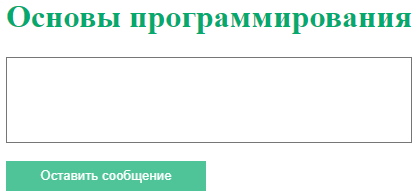
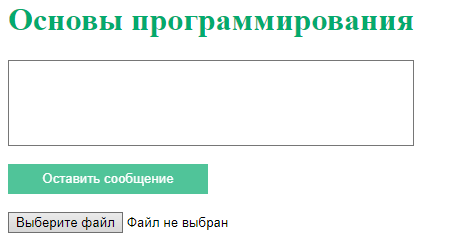
Pictures to posts add

Changed region(s): [[0.0, 0.6804, 0.9905, 0.9897], [0.0, 0.2474, 0.9905, 0.6186], [0.0, 0.0309, 0.9905, 0.1856]]

diff --git a/style.css b/style.css
@@ -7,6 +7,8 @@ textarea {
     margin-left: 25px;
 }
 
+
+
 .commentSubmit{
     background-color: #04AA6D;
     width: 200px;
@@ -43,13 +45,14 @@ h1{
     border: none;
     cursor: pointer;
     opacity: 0.9;
-
 }
 
 .hr{
     margin-right: 715px;
     margin-left: 25px;
 }
+
+
 
 .likeSubmit:hover{
     opacity: 1;

diff --git a/comment.php b/comment.php
@@ -1,12 +1,31 @@
 <?php
 
+include __DIR__.'/connection.php';
+
+$GLOBALS["symb_base"] = "0987654321zxcvbnmasdfghjklqwertyuiopPOIUYTREWQLKJHGFDSAMNBVCXZ";
+
+function gen_str($count) {
+    $str = "";
+    for ($i = 0; $i < $count; $i++) {
+        $num = rand(0,strlen($GLOBALS["symb_base"]) - 1);
+        $rand_symb = $GLOBALS["symb_base"][$num];
+        $str = $str.$rand_symb;
+    }
+    return $str;
+}
+
+
 function setComments($conn) {
     if (isset($_POST['commentSubmit'])) {
         $uid = $_POST['uid'];
         $date = $_POST['date'];
         $message = $_POST['message'];
         $likes = $_POST['likes'];
-        $sql = "INSERT INTO comments (uid, date, message, likes) VALUES ('$uid', '$date', '$message', '$likes')";
+        $dislikes = $_POST['dislikes'];
+        $file = $_FILES['img'];
+        $name = gen_str(5).".png";
+        (@copy($file["tmp_name"], __DIR__.'/img/'.$name));
+        $sql = "INSERT INTO comments (uid, date, message, likes, dislikes, image_id) VALUES ('$uid', '$date', '$message', '$likes', '$dislikes', '$name')";
         $result = $conn->query($sql);
         header('Location: index.php' );
     }
@@ -26,15 +45,22 @@ function getComments($conn){
             echo $row['uid']."<br>";
             echo $row['date']."<br>";
             echo $row['message']."<br>";
+            $img_id = $row['image_id'];
+            echo "<br>";
+            if ($img_id) {
+                echo "<td><img style = 'width:390px;' src = 'img/".$img_id."' alt = 'Тут могло быть изображение'/> </td>";
+                }
             echo "<div>  <form method='POST' action='".likeSubmit($conn,$row)."'>  <button type='submit' name='".$row['cid']."' class='likeSubmit'>Like</button>  Likes: ".$row["likes"]."  </form></div>";
+            echo "<br>";
+            echo "<div>  <form method='POST' action='".dislikeSubmit($conn,$row)."'>  <button type='submit' name='".$row['cid']."' class='dislikeSubmit' style='  background-color: #ff0000; color: white; border: none; cursor: pointer; opacity: 0.9;'>Dislike</button>  Dislikes: ".$row["dislikes"]."  </form></div>";
             echo "<hr>";
             echo "<p></div>";
         }
-    $i++;
+        $i++;
     }
 }
 
-function likeSubmit($conn,$row) {
+function likeSubmit($conn,$row){
     if(isset($_POST[$row['cid']])) {
         $cid = $row['cid'];
         $likes = $row['likes']+1;
@@ -42,4 +68,14 @@ function likeSubmit($conn,$row) {
         $result = mysqli_query($conn, $query);
     }
 }
+
+function dislikeSubmit($conn,$row){
+    if(isset($_POST[$row['cid']])) {
+        $cid = $row['cid'];
+        $dislikes = $row['dislikes'] + 1;
+        $query = "UPDATE comments SET dislikes = '$dislikes' WHERE cid = '$cid'";
+        $result = mysqli_query($conn, $query);
+    }
+}
+
 

diff --git a/index.php b/index.php
@@ -2,7 +2,6 @@
     date_default_timezone_set('Europe/Moscow');
     include 'connection.php';
     include 'comment.php';
-
 ?>
 
 <!DOCTYPE html>
@@ -18,18 +17,21 @@
 <h1>Основы программирования</h1>
 <?php
 
-echo "<form method='POST' action='".setComments($conn)."'>
+
+echo "<form method='POST' action='".setComments($conn)."' enctype = 'multipart/form-data'>
     <input type='hidden' name='uid' value='Аноним'>
     <input type='hidden' name='date' value='".date('Y-m-d H:i:s')."'>
     <input type='hidden' name='likes' value='0'>
+    <input type='hidden' name='dislikes' value='0'>
     <textarea name='message' required></textarea><br>
     <button type='submit' class='commentSubmit' name='commentSubmit'>Оставить сообщение</button>
-    <hr class='hr'>
-</form>";
-
+    <br><input type='file' name='img' style='margin-left: 25px'>
+    </form>";
 ?>
 
+<hr class='hr'>
 <div class="flex-container">
+
 <?php
 
 echo "<form method='POST' action='".getComments($conn)."'>

diff --git a/connection.php b/connection.php
@@ -5,3 +5,6 @@ $conn = mysqli_connect('localhost', 'root', '', 'commentsection');
 if (!$conn){
     die("Connection failed: ".mysqli_connect_error());
 }
+
+$db = new \PDO('mysql'.':host='.'localhost'.';dbname='.'commentsection','root','');
+

diff --git a/README.md b/README.md
@@ -5,7 +5,10 @@
 
 ## Цель работы:
 Разработать и реализовать клиент-серверную информационную систему, реализующую механизм CRUD
-
+## Выполненные требования
+* Возможность добавления постов в общую ленту
+* Реагирования на посты (лайки и дизлайки)
+* Публикация записей с прикреплением картинки
 ## Ход работы
 ### Пользовательский интерфейс
 1. Форма отправки сообщения                        
@@ -19,10 +22,10 @@
 
 ### API сервера
 
-В основе приложения использована клиент-серверная архитектура. Обмен данными между клиентом и сервером осуществляется с помощью HTTP GET и POST запросов. В теле POST запроса отправки поста используются следующие поля: comment. Для увеличения счётчика реакции используется форма с POST запросом. В теле POST запроса реакции используются следующие поля: cid, likes.
+В основе приложения использована клиент-серверная архитектура. Обмен данными между клиентом и сервером осуществляется с помощью HTTP POST запросов. В теле POST запроса отправки поста используются следующие поля: comment. Для увеличения счётчика реакции используется форма с POST запросом. В теле POST запроса реакции используются следующие поля: cid, likes.
 
 ### Хореография
-1. *Отправка сообщения*. Принимается введенное сообщение. Если поле оказалось пустым, то сайт просит запольнить его. Иначе отправляется запрос на добавление сообщения в базу данных, так же туда добавляется дата и время написания сообщения. Затем происходит перенаправление на страницу index.php. Из базы данных выводится данное сообщение с датой и временем его написания.
+1. *Отправка сообщения*. Принимается введенное сообщение. Если поле оказалось пустым, то сайт просит запольнить его. Иначе отправляется запрос на добавление сообщения в базу данных, так же туда добавляется дата, название картинки и время написания сообщения. Затем происходит перенаправление на страницу index.php. Из базы данных выводится данное сообщение с датой и временем его написания, а также картинкой если она была добавлена.
 2. *Просмотр и оценка сообщений*. Кнопка like вызывает отправление запроса в базу данных на изменение количества лайков на определенном id сообщения.
 
 ## Описание структуры базы данных
@@ -32,6 +35,8 @@
 3. "date" типа datetime для хранения даты и времени отправления сообщения
 4. "message" типа text для хранения сообщений
 5. "likes" типа int для хранения количества лайков
+6. "dislikes" типа int для хранения количества дизлайков
+7. "image_id" типа varchar для хранения картинок
 
 ## Описание алгоритмов
 1. Алгоритм отправки сообщения                        
@@ -53,7 +58,11 @@ function setComments($conn) {
         $date = $_POST['date'];
         $message = $_POST['message'];
         $likes = $_POST['likes'];
-        $sql = "INSERT INTO comments (uid, date, message, likes) VALUES ('$uid', '$date', '$message', '$likes')";
+        $dislikes = $_POST['dislikes'];
+        $file = $_FILES['img'];
+        $name = gen_str(5).".png";
+        (@copy($file["tmp_name"], __DIR__.'/img/'.$name));
+        $sql = "INSERT INTO comments (uid, date, message, likes, dislikes, image_id) VALUES ('$uid', '$date', '$message', '$likes', '$dislikes', '$name')";
         $result = $conn->query($sql);
         header('Location: index.php' );
     }
@@ -75,15 +84,22 @@ function getComments($conn){
             echo $row['uid']."<br>";
             echo $row['date']."<br>";
             echo $row['message']."<br>";
+            $img_id = $row['image_id'];
+            echo "<br>";
+            if ($img_id) {
+                echo "<td><img style = 'width:390px;' src = 'img/".$img_id."' alt = 'Тут могло быть изображение'/> </td>";
+                }
             echo "<div>  <form method='POST' action='".likeSubmit($conn,$row)."'>  <button type='submit' name='".$row['cid']."' class='likeSubmit'>Like</button>  Likes: ".$row["likes"]."  </form></div>";
+            echo "<br>";
+            echo "<div>  <form method='POST' action='".dislikeSubmit($conn,$row)."'>  <button type='submit' name='".$row['cid']."' class='dislikeSubmit' style='  background-color: #ff0000; color: white; border: none; cursor: pointer; opacity: 0.9;'>Dislike</button>  Dislikes: ".$row["dislikes"]."  </form></div>";
             echo "<hr>";
             echo "<p></div>";
         }
-    $i++;
+        $i++;
     }
 }
 ```
-3. Функция оставления лайка
+3. Функция добавления лайка
 ```
 function likeSubmit($conn,$row) {
     if(isset($_POST[$row['cid']])) {
